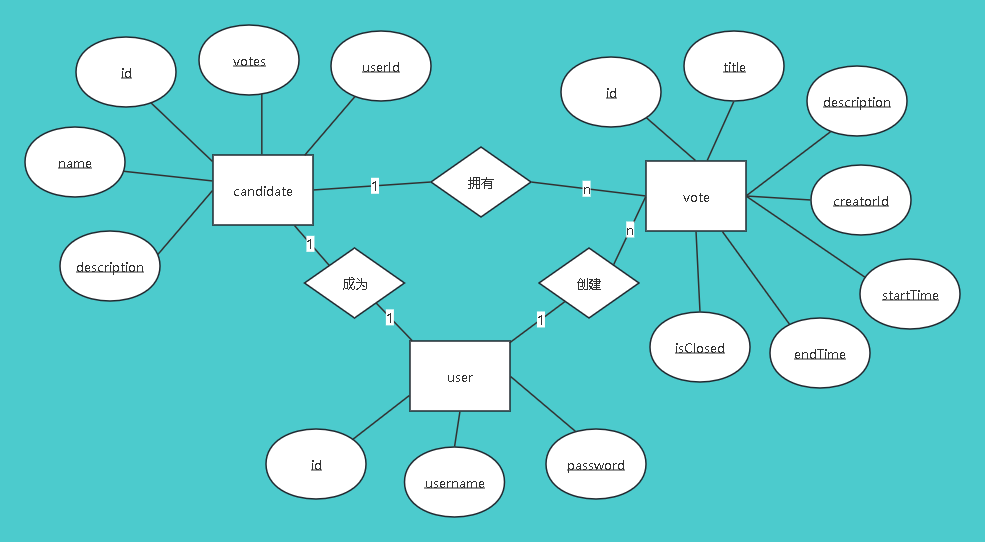
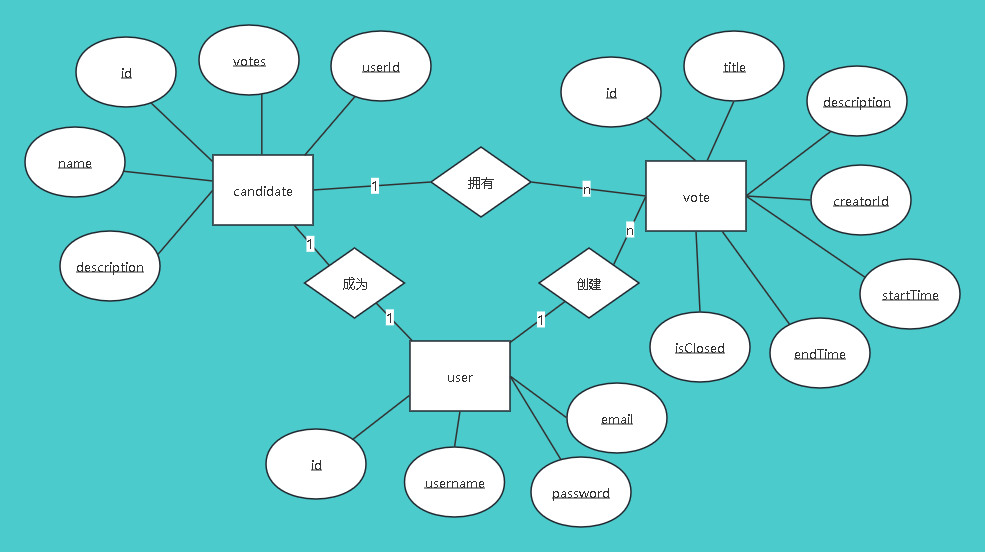
user模块： user新增email字段 新增获取用户信息，修改用户信息接口

diff --git a/vote-user/src/main/java/top/wml/controller/UserController.java b/vote-user/src/main/java/top/wml/controller/UserController.java
@@ -52,4 +52,18 @@ public class UserController {
         boolean register = userService.register(user);
         return CommonResp.success(register);
     }
+
+    @GetMapping("/getUserInfo")
+    @Operation(summary = "获取用户信息")
+    public CommonResp getUserById(@RequestParam Integer id){
+        User byId = userService.getById(id);
+        return CommonResp.success(byId);
+    }
+
+    @PostMapping("/updateUser")
+    @Operation(summary = "更新用户信息")
+    public CommonResp updateUser(@RequestBody User user){
+        boolean b = userService.updateById(user);
+        return b? CommonResp.success(b):CommonResp.fail("该用户不存在！");
+    }
 }

diff --git a/vote-common/src/main/java/top/wml/entity/User.java b/vote-common/src/main/java/top/wml/entity/User.java
@@ -19,4 +19,6 @@ public class User {
 
     private String password;
 
+    private String email;
+
 }
